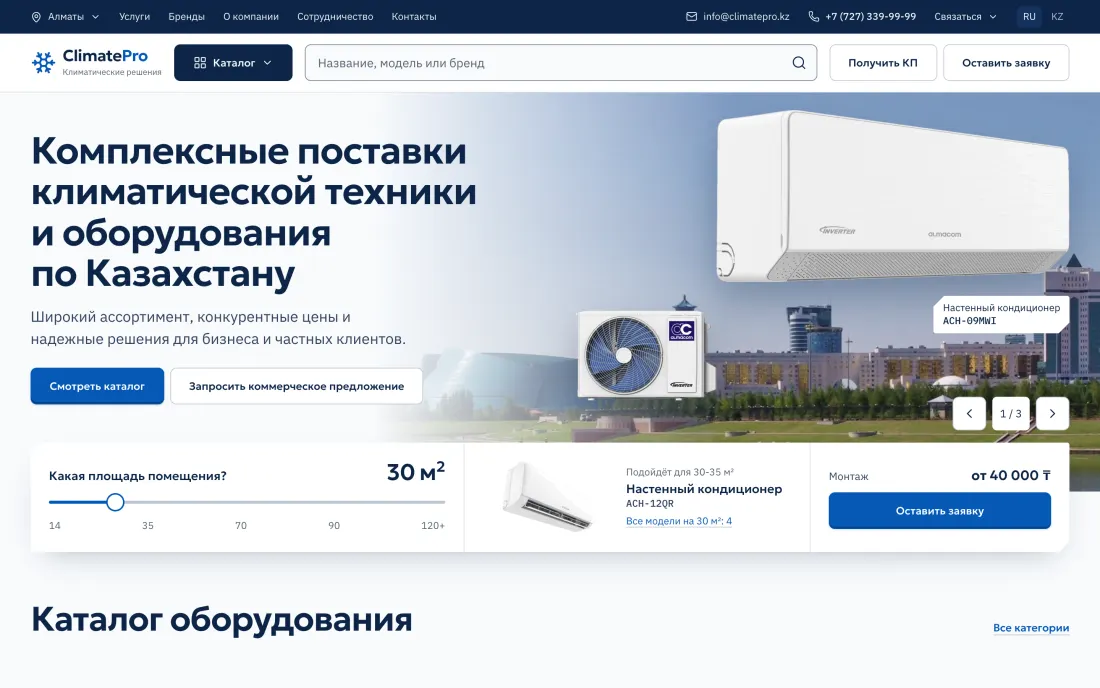
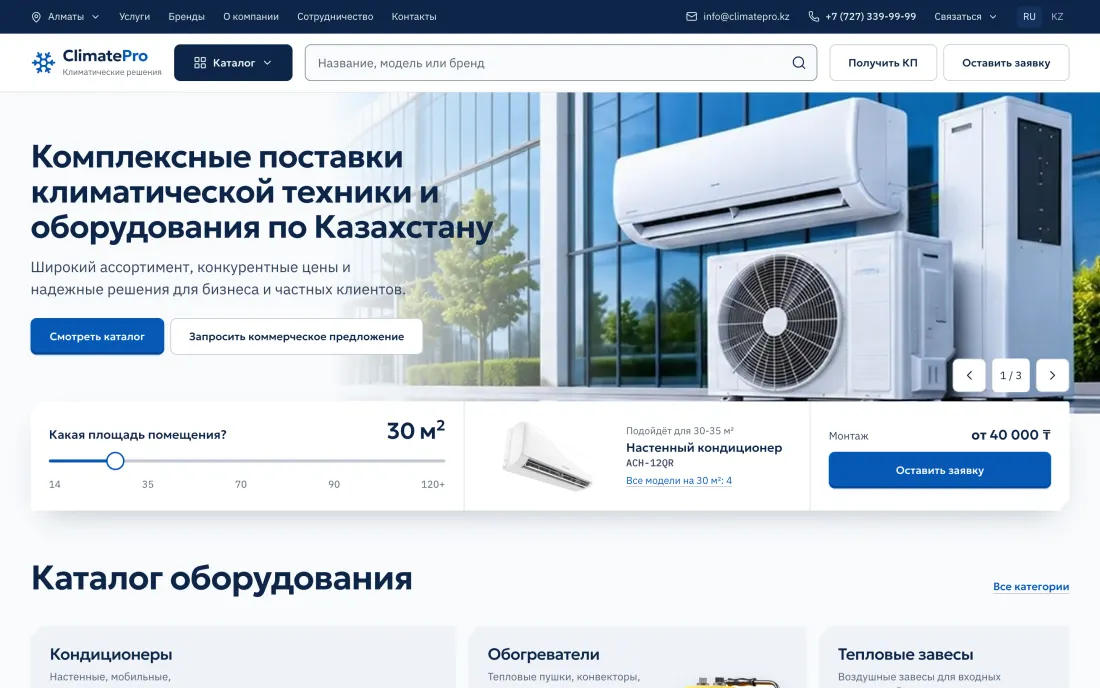
Слайдер на кадрах заказчика, лента брендов без кнопки паузы

diff --git a/index.html b/index.html
@@ -228,7 +228,7 @@
 <main id="main">
 <section class="hero" data-hero aria-label="Предложения компании" aria-roledescription="карусель">
   <article class="hero__slide is-active" data-slide>
-    <figure class="hero__bg" data-slot="hero-1" data-alt="Панорама города, деловой квартал у воды: заменить на фото объекта заказчика"><img class="" src="assets/img/scene/astana-2400.webp" srcset="assets/img/scene/astana-1280.webp 1280w, assets/img/scene/astana-2400.webp 2400w" sizes="100vw" width="3787" height="1176" alt="Панорама новых кварталов Астаны под ясным небом" fetchpriority="high" decoding="async" style="object-position:62% 40%"></figure>
+    <figure class="hero__bg" data-slot="hero-1" data-alt="Настенный кондиционер и внешний блок у стеклянного делового здания" data-parallax="16"><img src="assets/img/hero/supply-2000.webp" srcset="assets/img/hero/supply-1200.webp 1200w, assets/img/hero/supply-2000.webp 2000w, assets/img/hero/supply-3200.webp 3200w" sizes="(min-width: 60rem) 2600px, 640px" width="2000" height="370" alt="Настенный кондиционер и внешний блок у стеклянного делового здания" fetchpriority="high" decoding="async" style="--shift:6%"></figure>
     <div class="hero__scrim"></div>
     <div class="container hero__grid">
       <div class="hero__text">
@@ -236,29 +236,26 @@
         <p class="lead hero__lead">Широкий ассортимент, конкурентные цены и надежные решения для бизнеса и частных клиентов.</p>
         <div class="hero__actions"><a class="btn btn--primary" href="catalog/">Смотреть каталог</a><a class="btn btn--quiet" href="contacts/#form" data-lead="kp" data-title="Запрос коммерческого предложения">Запросить коммерческое предложение</a></div>
       </div>
-      <div class="hero__stage" data-parallax="-24"><img class="hero__unit" src="assets/img/cut/f9a11c62fb-1200.webp" srcset="assets/img/cut/f9a11c62fb-640.webp 640w, assets/img/cut/f9a11c62fb-1200.webp 1200w" sizes="(min-width: 60rem) 42vw, 80vw" width="1486" height="725" alt="Настенный кондиционер Almacom, внутренний блок" loading="lazy" decoding="async" style="width:70%;right:0;top:5%"><img class="hero__unit" src="assets/img/cut/faba0d7649-640.webp" srcset="assets/img/cut/faba0d7649-640.webp 640w" sizes="(min-width: 60rem) 42vw, 80vw" width="1179" height="751" alt="Внешний блок кондиционера Almacom" loading="lazy" decoding="async" style="width:28%;left:2%;bottom:12%"><a class="hero__cap cut" href="catalog/konditsionery/almacom-ach-09mwi/" style="right:0;top:58%"><span>Настенный кондиционер</span><code class="model">ACH-09MWI</code></a></div>
     </div>
   </article><article class="hero__slide" data-slide aria-hidden="true">
-    <figure class="hero__bg" data-slot="hero-2" data-alt="Фасад делового здания: заменить на фото склада или объекта заказчика"><img class="" src="assets/img/scene/facade-2400.webp" srcset="assets/img/scene/facade-1280.webp 1280w, assets/img/scene/facade-2400.webp 2400w" sizes="100vw" width="3840" height="2560" alt="Светлый фасад современного делового здания" loading="lazy" decoding="async" style="object-position:50% 50%"></figure>
+    <figure class="hero__bg" data-slot="hero-2" data-alt="Тепловая пушка, конвектор и масляный радиатор в светлом складском зале" data-parallax="16"><img src="assets/img/hero/heat-2000.webp" srcset="assets/img/hero/heat-1200.webp 1200w, assets/img/hero/heat-2000.webp 2000w, assets/img/hero/heat-3200.webp 3200w" sizes="(min-width: 60rem) 2600px, 640px" width="2000" height="373" alt="Тепловая пушка, конвектор и масляный радиатор в светлом складском зале" loading="lazy" decoding="async" style="--shift:8.8%"></figure>
     <div class="hero__scrim"></div>
     <div class="container hero__grid">
-      <div class="hero__text">
+      <div class="hero__text hero__text--narrow">
         <h2 class="display-s">Тепловое оборудование для объектов и дома</h2>
         <p class="lead hero__lead">Пушки, завесы, конвекторы и радиаторы: подберём по мощности и площади.</p>
-        <div class="hero__actions"><a class="btn btn--primary" href="catalog/obogrevateli/">Смотреть обогреватели</a><a class="btn btn--quiet" href="contacts/#form" data-lead="kp" data-title="Запрос коммерческого предложения">Запросить коммерческое предложение</a></div>
+        <div class="hero__actions"><a class="btn btn--primary" href="catalog/obogrevateli/">Смотреть обогреватели</a><a class="btn btn--quiet" href="contacts/#form" data-lead="kp" data-title="Запрос коммерческого предложения">Запросить КП</a></div>
       </div>
-      <div class="hero__stage" data-parallax="-24"><img class="hero__unit" src="assets/img/cut/5fbd744441-640.webp" srcset="assets/img/cut/5fbd744441-640.webp 640w" sizes="(min-width: 60rem) 42vw, 80vw" width="1065" height="1246" alt="Тепловая пушка Otex IH-90G" loading="lazy" decoding="async" style="width:35%;right:3%;top:7%"><img class="hero__unit" src="assets/img/cut/7f94e91f8e-1200.webp" srcset="assets/img/cut/7f94e91f8e-640.webp 640w, assets/img/cut/7f94e91f8e-1200.webp 1200w" sizes="(min-width: 60rem) 42vw, 80vw" width="1309" height="1094" alt="Электроконвектор Almacom PC-22N" loading="lazy" decoding="async" style="width:42%;left:4%;bottom:12%"><a class="hero__cap cut" href="catalog/obogrevateli/otex-ih-90g/" style="right:0;top:60%"><span>Тепловая пушка</span><code class="model">IH-90G</code></a></div>
     </div>
   </article><article class="hero__slide" data-slide aria-hidden="true">
-    <figure class="hero__bg hero__bg--half" data-slot="hero-3" data-alt="Разметка стены перед монтажом: заменить на фото бригады заказчика"><img class="" src="assets/img/scene/marking-1600.webp" srcset="assets/img/scene/marking-960.webp 960w, assets/img/scene/marking-1600.webp 1600w, assets/img/scene/marking-2400.webp 2400w" sizes="100vw" width="3840" height="2560" alt="Монтажник размечает стену под установку блока" loading="lazy" decoding="async" style="object-position:50% 30%"></figure>
-    <div class="hero__scrim hero__scrim--half"></div>
+    <figure class="hero__bg" data-slot="hero-3" data-alt="Монтажник устанавливает настенный кондиционер в квартире с панорамным окном" data-parallax="16"><img src="assets/img/hero/install-2000.webp" srcset="assets/img/hero/install-1200.webp 1200w, assets/img/hero/install-2000.webp 2000w, assets/img/hero/install-3200.webp 3200w" sizes="(min-width: 60rem) 2600px, 640px" width="2000" height="349" alt="Монтажник устанавливает настенный кондиционер в квартире с панорамным окном" loading="lazy" decoding="async" style="--shift:9.5%"></figure>
+    <div class="hero__scrim"></div>
     <div class="container hero__grid">
       <div class="hero__text">
         <h2 class="display-s">Монтаж кондиционеров от 40 000 ₸</h2>
         <p class="lead hero__lead">Алмазное бурение, минимум пыли, пусконаладка и инструктаж.</p>
         <div class="hero__actions"><a class="btn btn--primary" href="services/">Смотреть услуги</a><a class="btn btn--quiet" href="contacts/#form" data-lead="service" data-title="Заказать монтаж">Заказать монтаж</a></div>
       </div>
-      <div class="hero__stage" data-parallax="-24"></div>
     </div>
   </article>
   <div class="hero__nav"><div class="container hero__nav-in">
@@ -454,10 +451,7 @@
   <div class="container">
     <div class="head">
       <h2 id="h-brands">Бренды в поставке</h2>
-      <div class="head__side">
-        <a class="link" href="brands/">Все бренды</a>
-        <button class="icon-btn" type="button" data-loop-toggle data-pause='<svg class="ico " width="18" height="18" viewBox="0 0 24 24" fill="none" stroke="currentColor" stroke-width="1.75" stroke-linecap="round" stroke-linejoin="round" aria-hidden="true"><rect x="14" y="3" width="5" height="18" rx="1" /><rect x="5" y="3" width="5" height="18" rx="1" /></svg>' data-play='<svg class="ico " width="18" height="18" viewBox="0 0 24 24" fill="none" stroke="currentColor" stroke-width="1.75" stroke-linecap="round" stroke-linejoin="round" aria-hidden="true"><path d="M5 5a2 2 0 0 1 3.008-1.728l11.997 6.998a2 2 0 0 1 .003 3.458l-12 7A2 2 0 0 1 5 19z" /></svg>' aria-label="Остановить ленту брендов"><svg class="ico " width="18" height="18" viewBox="0 0 24 24" fill="none" stroke="currentColor" stroke-width="1.75" stroke-linecap="round" stroke-linejoin="round" aria-hidden="true"><rect x="14" y="3" width="5" height="18" rx="1" /><rect x="5" y="3" width="5" height="18" rx="1" /></svg></button>
-      </div>
+      <div class="head__side"><a class="link" href="brands/">Все бренды</a></div>
     </div>
   </div>
   <div class="marquee"><div class="marquee__track"><ul class="marquee__set"><li><a href="brands/almacom/" aria-label="Almacom"><span class="bm " role="img" aria-label="Almacom" style="-webkit-mask-image:url('assets/img/logos/almacom.svg');mask-image:url('assets/img/logos/almacom.svg');--h:22px"></span></a></li><li><a href="brands/midea/" aria-label="Midea"><span class="bm " role="img" aria-label="Midea" style="-webkit-mask-image:url('assets/img/logos/midea.webp');mask-image:url('assets/img/logos/midea.webp');--h:42px"></span></a></li><li><a href="brands/samsung/" aria-label="Samsung"><span class="bm " role="img" aria-label="Samsung" style="-webkit-mask-image:url('assets/img/logos/samsung.svg');mask-image:url('assets/img/logos/samsung.svg');--h:104px"></span></a></li><li><a href="brands/lg/" aria-label="LG"><span class="bm " role="img" aria-label="LG" style="-webkit-mask-image:url('assets/img/logos/lg.svg');mask-image:url('assets/img/logos/lg.svg');--h:72px"></span></a></li><li><a href="brands/otex/" aria-label="Otex"><span class="bm-type ">Otex</span></a></li><li><a href="brands/duke/" aria-label="Duke"><span class="bm-type ">Duke</span></a></li><li><a href="brands/atlantiq/" aria-label="Atlantiq"><span class="bm-type ">Atlantiq</span></a></li><li><a href="brands/chanhong/" aria-label="Chanhong"><span class="bm-type ">Chanhong</span></a></li><li><a href="brands/klima/" aria-label="Klima"><span class="bm-type ">Klima</span></a></li><li><a href="brands/ballu/" aria-label="Ballu"><span class="bm-type ">Ballu</span></a></li><li><a href="brands/beko-ava/" aria-label="Beko AVA"><span class="bm-type ">Beko AVA</span></a></li><li><a href="brands/volcano/" aria-label="Volcano"><span class="bm-type ">Volcano</span></a></li><li><a href="brands/vts/" aria-label="VTS"><span class="bm " role="img" aria-label="VTS" style="-webkit-mask-image:url('assets/img/logos/vts.svg');mask-image:url('assets/img/logos/vts.svg');--h:40px"></span></a></li></ul><ul class="marquee__set" aria-hidden="true"><li><a href="brands/almacom/" tabindex="-1"><span class="bm " role="img" aria-label="Almacom" style="-webkit-mask-image:url('assets/img/logos/almacom.svg');mask-image:url('assets/img/logos/almacom.svg');--h:22px"></span></a></li><li><a href="brands/midea/" tabindex="-1"><span class="bm " role="img" aria-label="Midea" style="-webkit-mask-image:url('assets/img/logos/midea.webp');mask-image:url('assets/img/logos/midea.webp');--h:42px"></span></a></li><li><a href="brands/samsung/" tabindex="-1"><span class="bm " role="img" aria-label="Samsung" style="-webkit-mask-image:url('assets/img/logos/samsung.svg');mask-image:url('assets/img/logos/samsung.svg');--h:104px"></span></a></li><li><a href="brands/lg/" tabindex="-1"><span class="bm " role="img" aria-label="LG" style="-webkit-mask-image:url('assets/img/logos/lg.svg');mask-image:url('assets/img/logos/lg.svg');--h:72px"></span></a></li><li><a href="brands/otex/" tabindex="-1"><span class="bm-type ">Otex</span></a></li><li><a href="brands/duke/" tabindex="-1"><span class="bm-type ">Duke</span></a></li><li><a href="brands/atlantiq/" tabindex="-1"><span class="bm-type ">Atlantiq</span></a></li><li><a href="brands/chanhong/" tabindex="-1"><span class="bm-type ">Chanhong</span></a></li><li><a href="brands/klima/" tabindex="-1"><span class="bm-type ">Klima</span></a></li><li><a href="brands/ballu/" tabindex="-1"><span class="bm-type ">Ballu</span></a></li><li><a href="brands/beko-ava/" tabindex="-1"><span class="bm-type ">Beko AVA</span></a></li><li><a href="brands/volcano/" tabindex="-1"><span class="bm-type ">Volcano</span></a></li><li><a href="brands/vts/" tabindex="-1"><span class="bm " role="img" aria-label="VTS" style="-webkit-mask-image:url('assets/img/logos/vts.svg');mask-image:url('assets/img/logos/vts.svg');--h:40px"></span></a></li></ul></div></div>
@@ -915,7 +909,7 @@
       <a href="privacy/">Политика конфиденциальности</a>
       <a class="foot__up" href="#main"><svg class="ico " width="16" height="16" viewBox="0 0 24 24" fill="none" stroke="currentColor" stroke-width="1.75" stroke-linecap="round" stroke-linejoin="round" aria-hidden="true"><path d="m5 12 7-7 7 7" /><path d="M12 19V5" /></svg>Наверх</a>
     </div>
-    <p class="foot__credits" data-credits>Фото: <a href="https://commons.wikimedia.org/wiki/File:New_Astana_Skyline_(9587635437).jpg" target="_blank" rel="noopener">Ken and Nyetta</a> (CC BY 2.0), <a href="https://commons.wikimedia.org/wiki/File:M%C3%BCnster,_Hafen,_Am_Mittelhafen_56_--_2026_--_0239_(bw).jpg" target="_blank" rel="noopener">Dietmar Rabich</a> (CC BY-SA 4.0)</p>
+    
   </div>
 </footer>
 <nav class="dock" aria-label="Быстрые действия">

diff --git a/assets/css/site.css b/assets/css/site.css
@@ -13,6 +13,8 @@
 /* Hallmark · hero-review: fix · 5 findings · 5 resolved */
 /* Hallmark · departures from Cobalt, by the client's brief: scene photos in natural colour with a mild cool grade instead of one duotone frame, a copper second signal, Geologica and IBM Plex for Cyrillic, light parallax on two photos */
 /* Hallmark · finish-review: subagent · 8 findings · 7 resolved 1 unresolved · gap: stock scene photos stay until the client supplies its own */
+/* Hallmark · waive 79 · the area picker sits right under the banner and fills that band · ClimatePro hero is a low banner by the client brief, the picker is its lower half, the measured gap is the picker itself */
+/* Hallmark · client request: visible pause button removed from the brands marquee, it still stops on hover and focus and stays still under reduced motion */
 /* Hallmark · answered F4 · ClimatePro keeps the header action outlined on the home first screen, cobalt fills only the catalog action and the area picker result, the rest are outlined */
 @import url("./tokens.css");
 @import url("./base.css");
@@ -148,31 +150,25 @@ a:hover { text-decoration-color: var(--color-accent); }
 .mega__all { display: flex; gap: var(--space-xs); }
 
 /* ------- Главный экран ------- */
-.hero { position: relative; height: clamp(440px, 58dvh, 580px); overflow: hidden; background: var(--color-paper-2); }
+.hero { position: relative; height: clamp(380px, 46.7dvh, 460px); overflow: hidden; background: var(--color-paper-2); }
 .hero__slide { position: absolute; inset: 0; }
 html:not(.js) .hero__slide:not(.is-active) { display: none; }
 .js .hero__slide { opacity: 0; visibility: hidden; transition: opacity var(--dur-long) var(--ease-out), visibility 0s linear var(--dur-long); }
 .js .hero__slide.is-active { opacity: 1; visibility: visible; transition: opacity var(--dur-long) var(--ease-out); }
 .hero__bg { position: absolute; inset: 0; margin: 0; }
-.hero__bg img { object-position: 70% 50%; }
-.hero__scrim { position: absolute; inset: 0; z-index: 2; background: linear-gradient(90deg, var(--color-paper) 34%, transparent 66%); pointer-events: none; }
-.hero__grid { position: relative; z-index: 3; display: grid; grid-template-columns: minmax(0, 6fr) minmax(0, 6fr); gap: var(--space-xl); height: 100%; align-items: center; padding-bottom: var(--space-2xl); }
+.hero__scrim { position: absolute; inset: 0; z-index: 2; background: linear-gradient(90deg, var(--color-paper) 30%, transparent 58%); pointer-events: none; }
+.hero__grid { position: relative; z-index: 3; display: grid; grid-template-columns: minmax(0, 6fr) minmax(0, 6fr); gap: var(--space-xl); height: 100%; align-items: center; padding-bottom: var(--space-md); }
 .hero__text { display: grid; gap: var(--space-md); justify-items: start; }
 .hero__lead { max-width: 44ch; color: var(--color-ink-2); }
 .hero__actions { display: flex; flex-wrap: wrap; gap: var(--space-xs); margin-top: var(--space-xs); }
-.hero__stage { position: relative; height: 100%; min-height: 0; }
-.hero__unit { position: absolute; max-width: none; height: auto; filter: var(--drop-unit); }
-.hero__cap { position: absolute; display: grid; padding: var(--space-xs) var(--space-sm); background: var(--color-surface); box-shadow: var(--shadow-card); font-size: var(--text-xs); line-height: 1.3; color: var(--color-ink); text-decoration: none; transition: background-color var(--dur-short) var(--ease-out); }
-.hero__cap:hover { background: var(--color-accent-wash); }
-.hero__cap .model { color: var(--color-ink); }
-.hero__nav { position: absolute; z-index: 4; right: 0; left: 0; bottom: calc(var(--space-2xl) + var(--space-md)); pointer-events: none; }
+.hero__nav { position: absolute; z-index: 4; right: 0; left: 0; bottom: calc(var(--space-md) + var(--space-sm)); pointer-events: none; }
 .hero__nav-in { display: flex; justify-content: flex-end; align-items: center; gap: var(--space-xs); }
 .hero__count { min-width: 3.5em; padding: 0 var(--space-xs); color: var(--color-ink); background: var(--color-surface); border-radius: var(--radius-chip); font-size: var(--text-sm); line-height: 44px; text-align: center; font-variant-numeric: tabular-nums; }
 .hero__nav .icon-btn { pointer-events: auto; }
 html:not(.js) .hero__nav { display: none; }
 
 /* ------- Подбор по площади: подпись сайта ------- */
-.picker-wrap { position: relative; z-index: var(--z-raised); margin-top: calc(-1 * var(--space-2xl)); }
+.picker-wrap { position: relative; z-index: var(--z-raised); margin-top: calc(-1 * var(--space-md)); }
 .picker { display: grid; grid-template-columns: minmax(0, 5fr) minmax(0, 4fr) minmax(0, 3fr); background: var(--color-surface); box-shadow: var(--shadow-raised); }
 .picker > * { padding: var(--space-lg); min-width: 0; }
 .picker > * + * { border-left: 1px solid var(--color-rule); }
@@ -267,7 +263,6 @@ select.input { padding-right: var(--space-xl); }
   .hero__scrim { display: none; }
   .hero__grid { display: block; height: auto; padding-block: 0; }
   .hero__text { padding: var(--space-lg) 0 var(--space-md); }
-  .hero__stage { position: absolute; left: 0; right: 0; bottom: 0; height: 56vw; max-height: 340px; }
   .js .hero__slide, .hero__slide { position: relative; display: none; opacity: 1; visibility: visible; background: var(--color-paper); }
   .js .hero__slide.is-active, .hero__slide.is-active { display: flex; flex-direction: column-reverse; }
   .hero__nav { position: absolute; bottom: var(--space-lg); }
@@ -356,10 +351,9 @@ select.input { padding-right: var(--space-xl); }
 .marquee__set a { display: flex; align-items: center; justify-content: center; width: 216px; height: 112px; border-right: 1px solid var(--color-rule); color: var(--color-ink); text-decoration: none; transition: color var(--dur-short) var(--ease-out), background-color var(--dur-short) var(--ease-out); }
 .marquee__set a:hover { color: var(--color-accent); background: var(--color-paper); }
 [data-loop]:not(.is-running) .marquee__track { animation-play-state: paused; }
-html:not(.js) [data-loop-toggle] { display: none; }
 .bm { display: block; width: 150px; height: var(--h, 36px); background: currentColor; -webkit-mask: var(--logo) center / contain no-repeat; mask: var(--logo) center / contain no-repeat; }
 .bm-type { font-family: var(--font-display); font-size: var(--text-xl); font-weight: 600; letter-spacing: var(--tracking-display); white-space: nowrap; }
-@media (prefers-reduced-motion: reduce) { .marquee { overflow-x: auto; } .marquee__track { animation: none; } .marquee__set[aria-hidden="true"] { display: none; } [data-loop-toggle] { display: none; } }
+@media (prefers-reduced-motion: reduce) { .marquee { overflow-x: auto; } .marquee__track { animation: none; } .marquee__set[aria-hidden="true"] { display: none; } }
 
 /* ------- Почему мы ------- */
 .why { display: grid; grid-template-columns: repeat(12, minmax(0, 1fr)); gap: var(--gap-columns); }
@@ -575,11 +569,9 @@ html:not(.js) .plan__pipe { stroke-dashoffset: 0; }
   .hero__text { grid-area: text; padding: var(--space-lg) var(--gutter) var(--space-md); gap: var(--space-sm); }
   .hero__text .display-s { font-size: clamp(1.625rem, 7.4vw, 2.5rem); }
   .hero__bg { grid-area: pic; aspect-ratio: 16 / 9; position: relative; inset: auto; }
-  .hero__stage { grid-area: pic; position: relative; inset: auto; height: auto; max-height: none; z-index: 3; }
   .hero__nav { bottom: var(--space-md); }
   .hero__actions .btn { flex: 1 1 100%; }
-  .hero__cap { display: none; }
-}
+  }
 
 /* Правки по блокам главной */
 .tile__head { display: block; position: relative; z-index: 2; }
@@ -907,10 +899,6 @@ html:not(.js) .plan__pipe { stroke-dashoffset: 0; }
   .why__big { font-size: clamp(3.5rem, 18vw, 5rem); }
 }
 
-/* Третий слайд: фото занимает правую часть, действие видно целиком */
-.hero__bg--half { left: 42%; }
-.hero__scrim--half { background: linear-gradient(90deg, var(--color-paper) 42%, transparent 58%); }
-@media (max-width: 60rem) { .hero__bg--half { left: auto; } }
 
 .pp__facts li:last-child:nth-child(odd) { grid-column: 1 / -1; }
 @media (max-width: 40rem) { .hero__actions .btn { padding: 0 var(--space-sm); font-size: var(--text-xs); } }
@@ -932,4 +920,15 @@ html:not(.js) .plan__pipe { stroke-dashoffset: 0; }
   .plan__t { font-size: 28px; }
   .plan__mark circle { r: 26px; }
   .plan__mark text { font-size: 28px; transform: translateY(5px); }
+}
+
+/* Главный экран на кадрах заказчика: кадр привязан к правому краю, сдвиг задан у каждого слайда */
+.hero__bg { inset: calc(-1 * var(--space-md)) 0 0 0; }
+.hero__bg img { inset: 0 0 auto auto; width: auto; max-width: none; height: 100%; object-fit: fill; transform: translateX(var(--shift, 0%)); filter: none; }
+.hero__text--narrow { max-width: 520px; }
+@media (min-width: 60.01rem) { .hero .display-s { font-size: clamp(2rem, 2.6vw + 0.3rem, 3rem); } }
+@media (max-width: 60rem) {
+  .hero__bg { inset: auto; }
+  .hero__text--narrow { max-width: none; }
+  .hero__actions { width: 100%; }
 }
